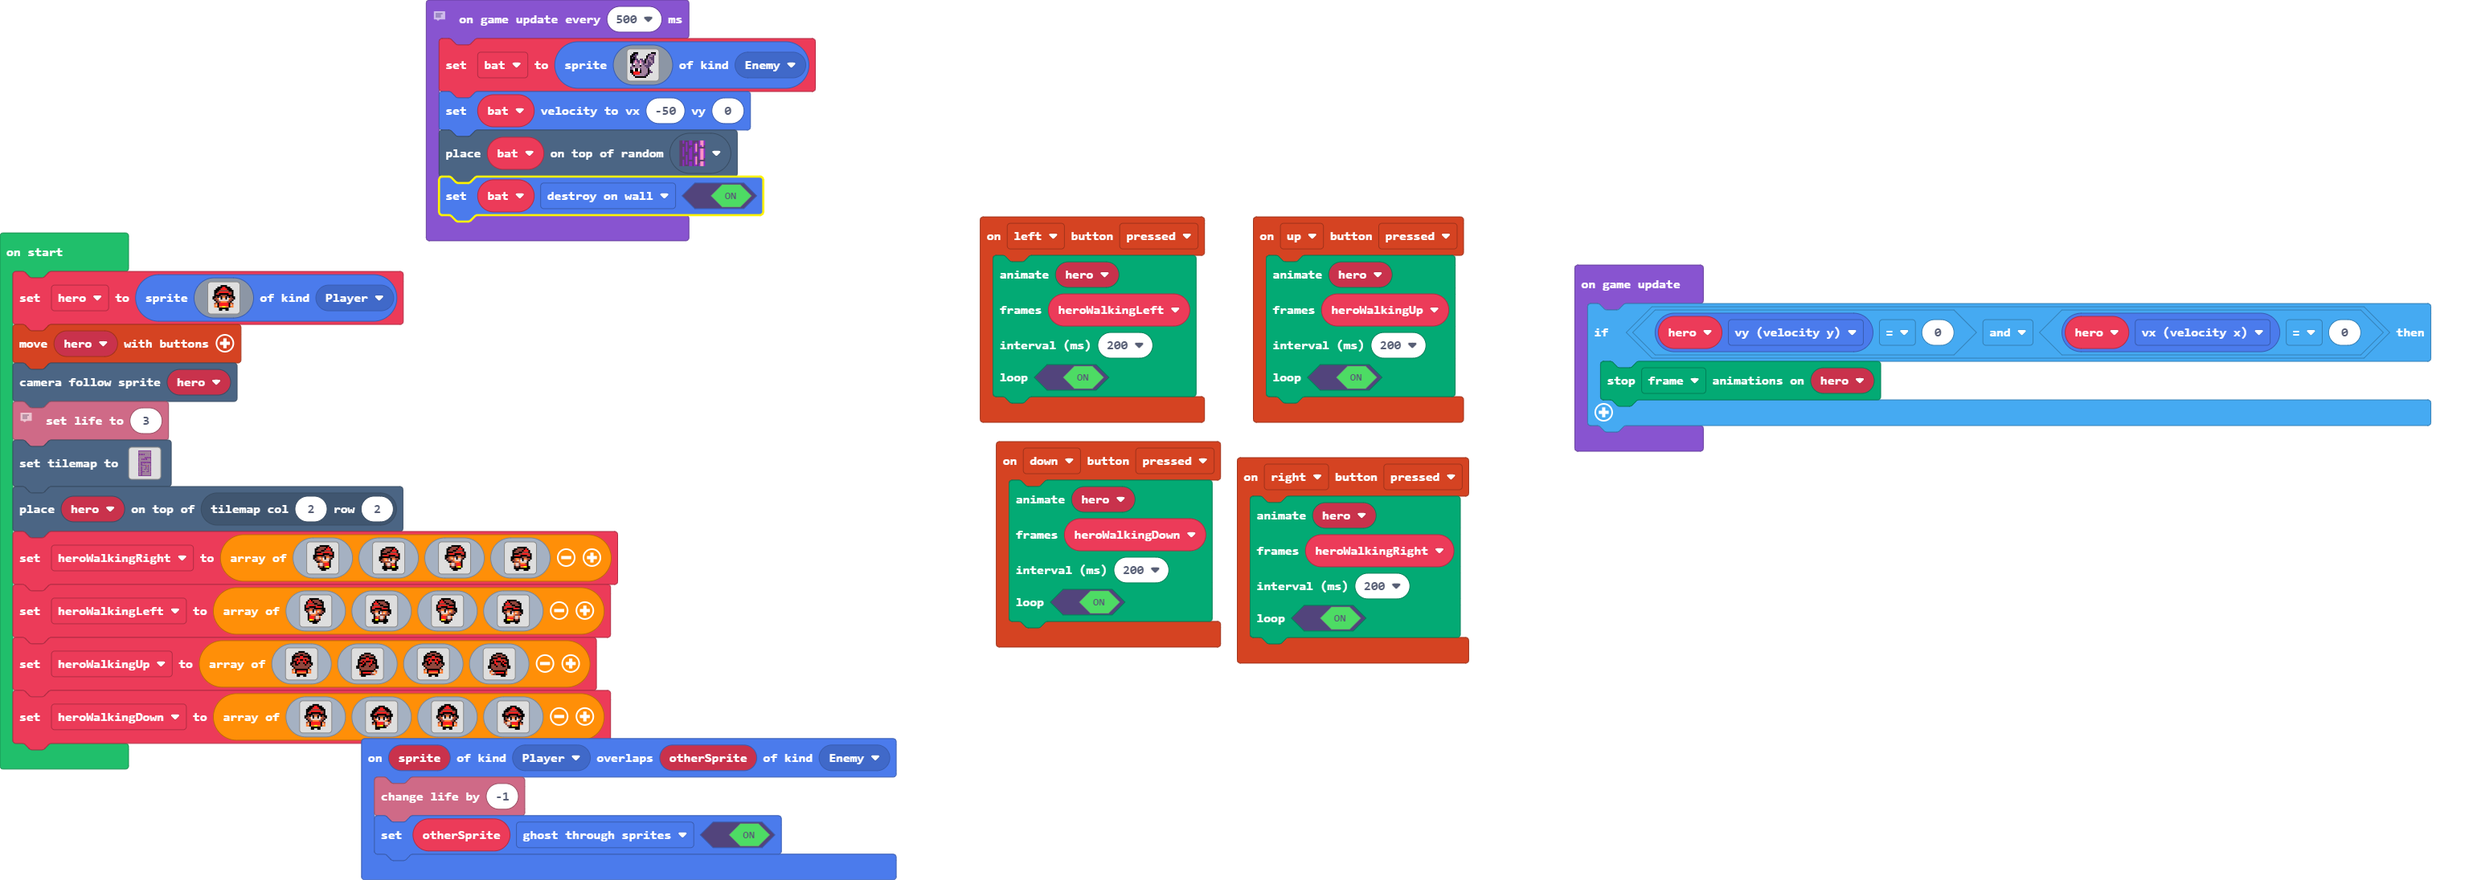
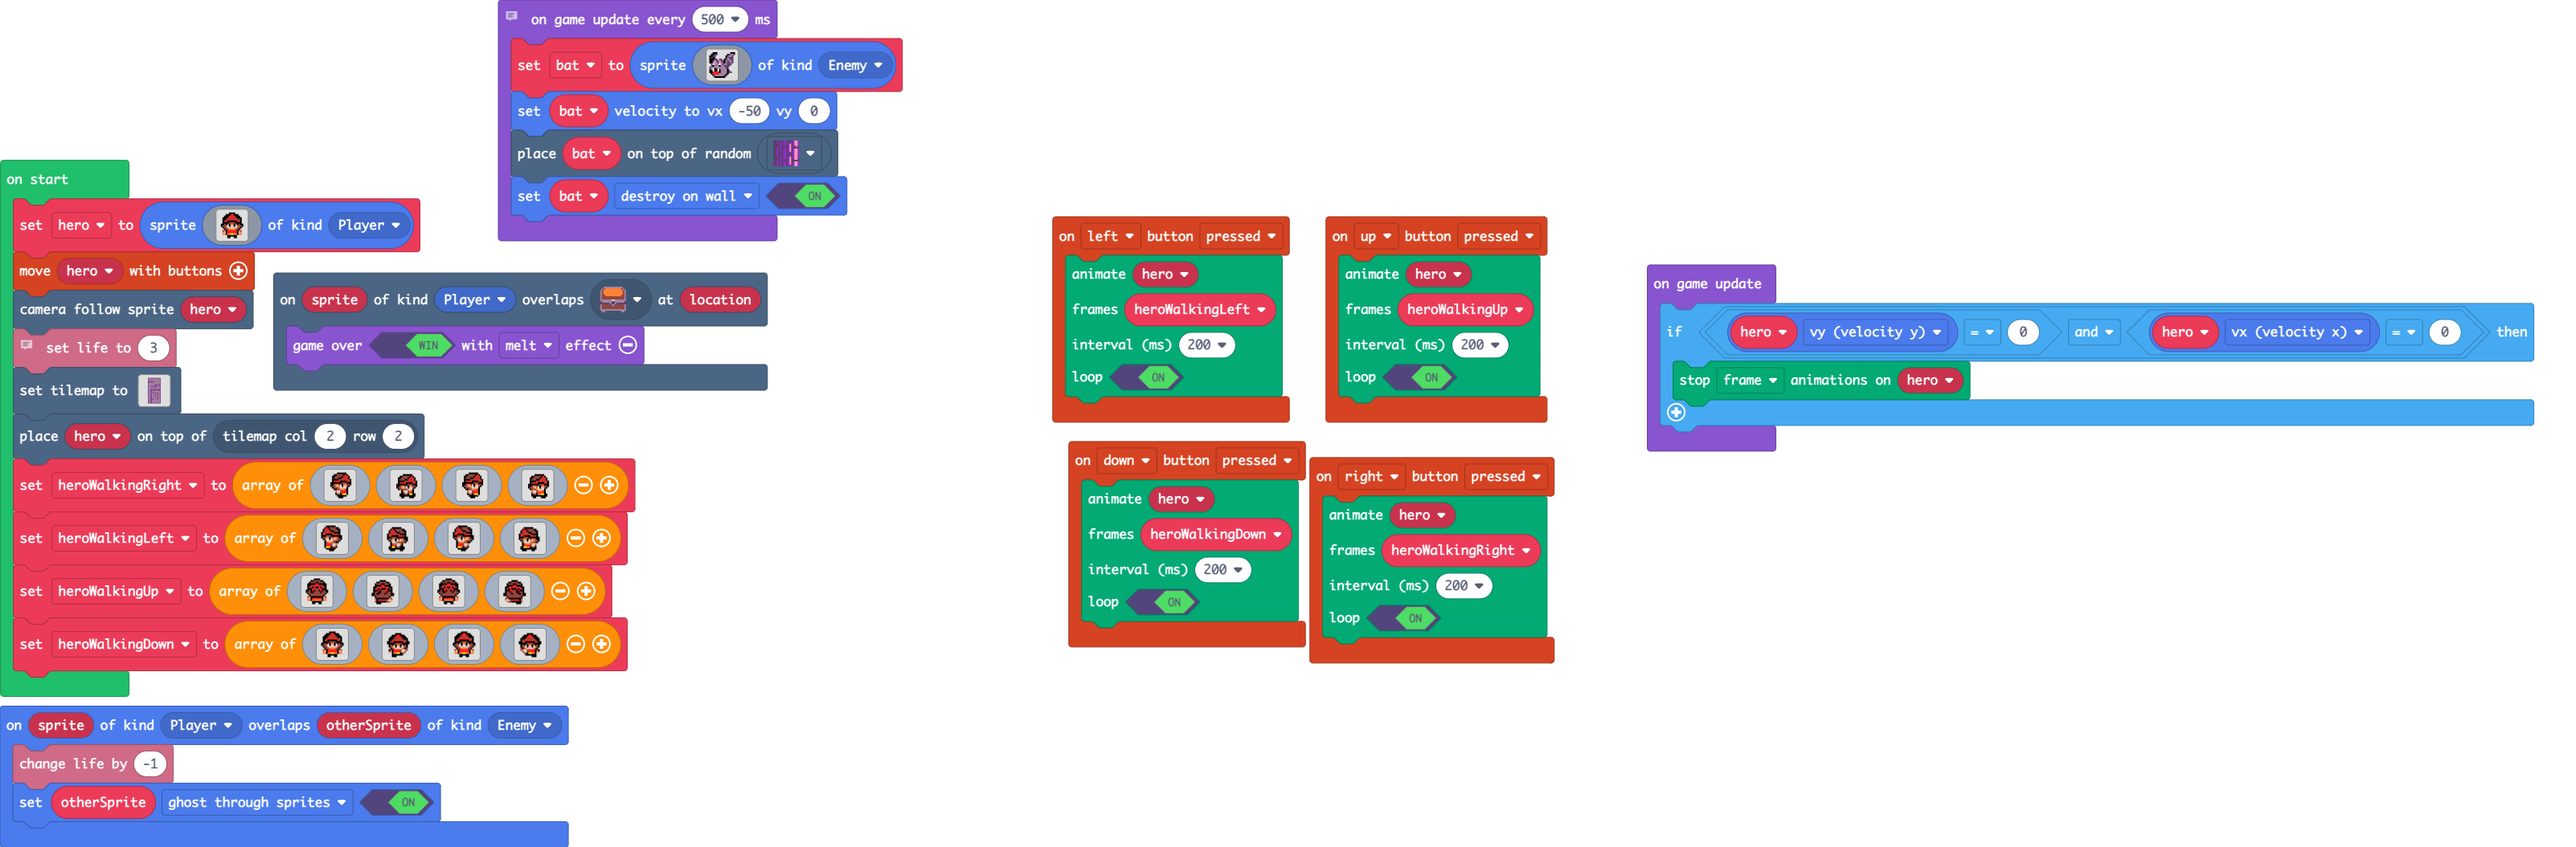
Update main.blocks, main.ts

Changed region(s): [[0.0, 0.0, 0.3744, 1.0], [0.3744, 0.2427, 0.9984, 0.7886]]

diff --git a/main.ts b/main.ts
@@ -14,6 +14,9 @@ controller.left.onEvent(ControllerButtonEvent.Pressed, function () {
     true
     )
 })
+scene.onOverlapTile(SpriteKind.Player, sprites.dungeon.chestClosed, function (sprite, location) {
+    game.over(true, effects.melt)
+})
 controller.right.onEvent(ControllerButtonEvent.Pressed, function () {
     animation.runImageAnimation(
     hero,
